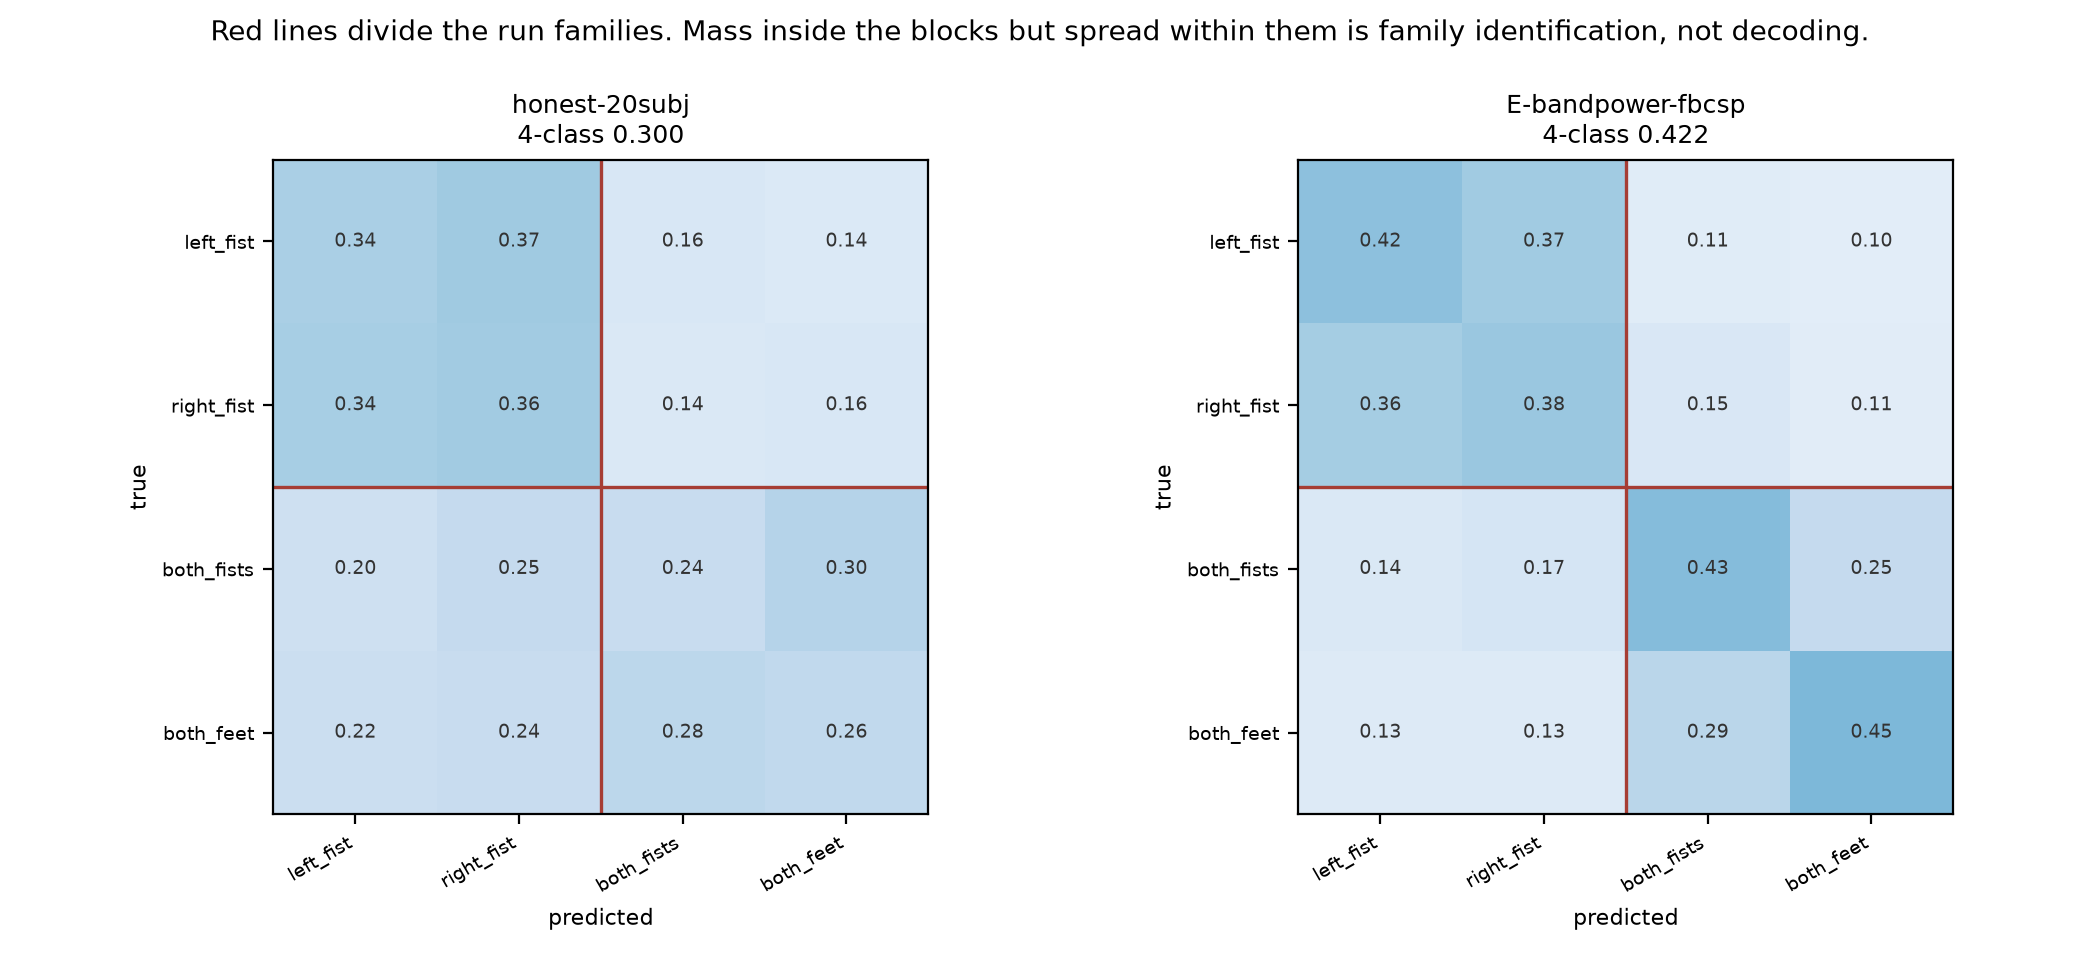
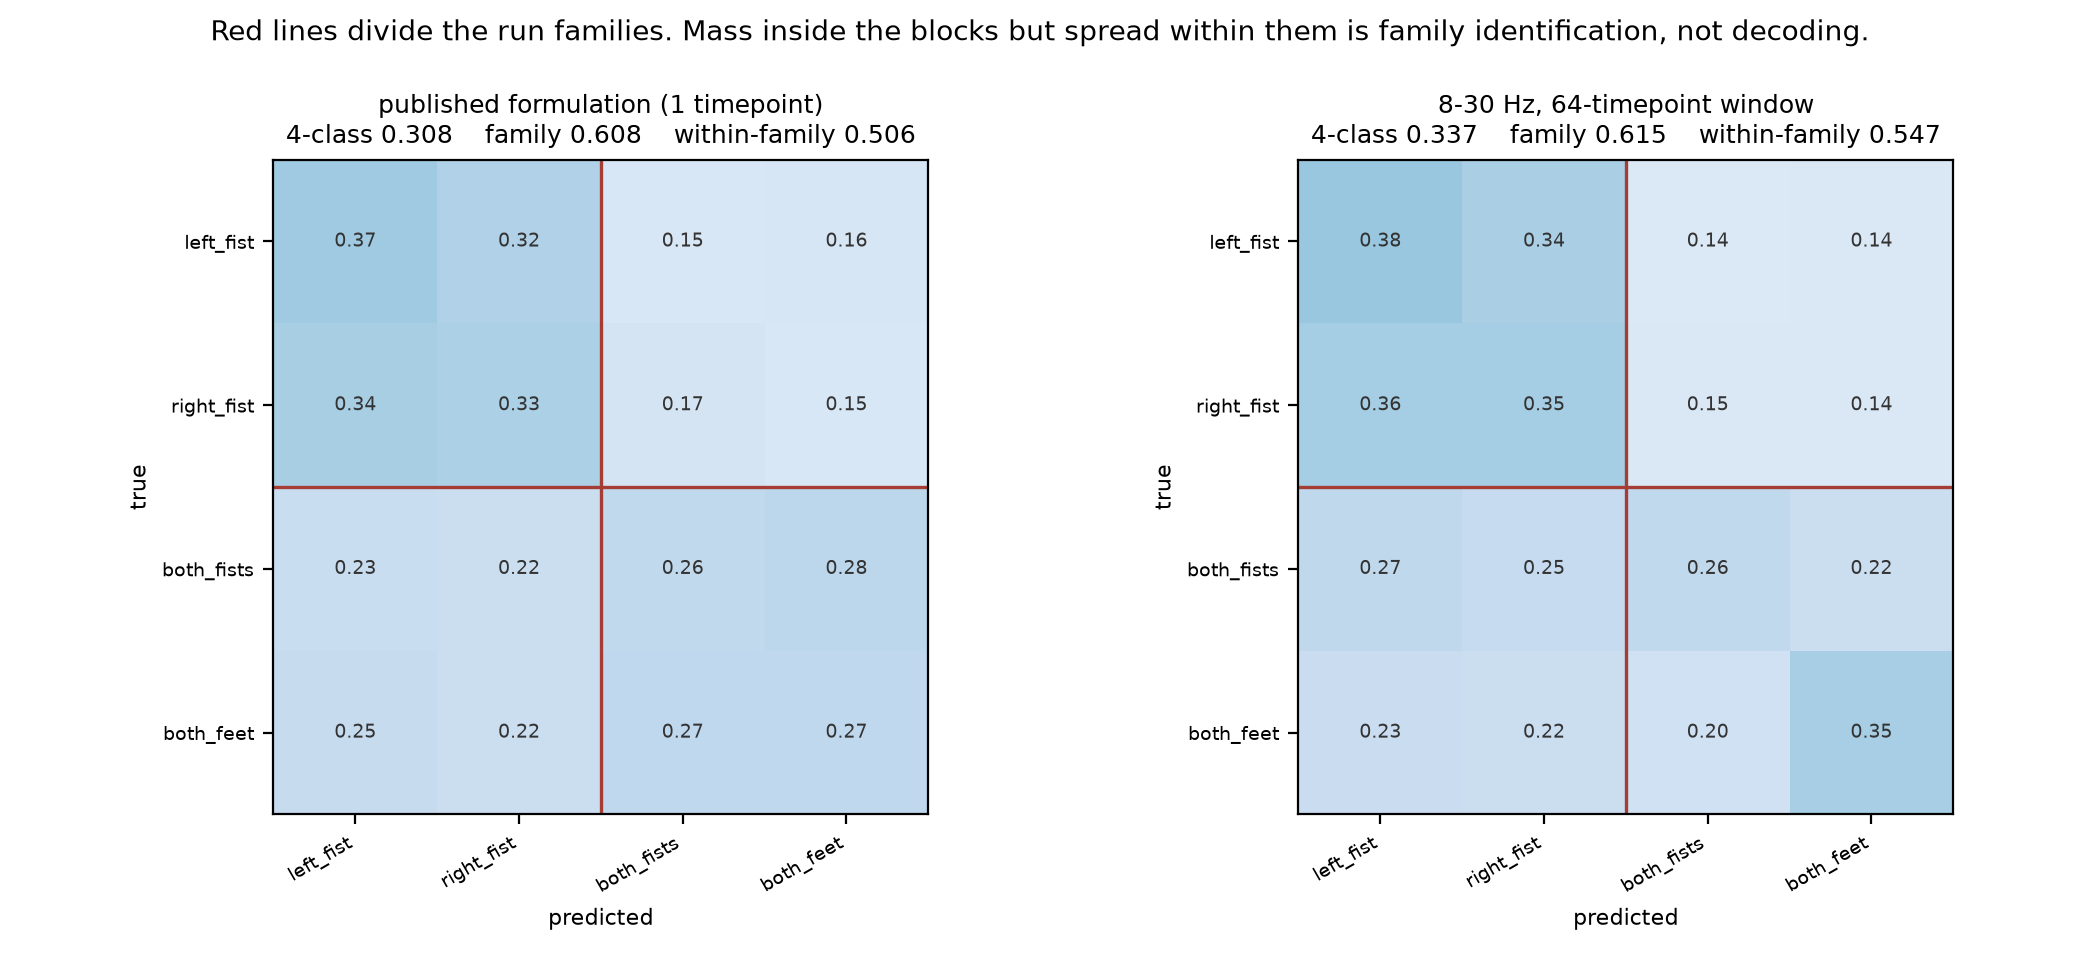
Regenerate figures on full-scale data; clean up 2.6 GB
confusion_decomposition.png now uses the Phase 1 runs (103 subjects) instead of 20
development subjects, and prints the family / within-family decomposition on each
panel. The published-formulation panel makes the argument visible: strong block
structure across the run-family divide, but near-equal cells within each block
(0.37/0.32, 0.34/0.33). The 8-30 Hz panel shows both_feet at 0.35 against 0.20,
which is real within-family signal.

The confirmatory arms are all binary, so 4-class confusion structure only exists in
the Phase 1 anchor runs; the figure targets those deliberately rather than the C-
tags, and the tag defaults say so.

Cleanup, 8.2 GB -> 5.6 GB. Removed the project-root source zip after verifying an
identical copy in ~/Downloads, checkpoints/ (763 MB), a stray nohup log and
__pycache__. Kept data/raw, both caches, figures and the experiment log.

Also fixed what caused the checkpoint waste rather than only deleting it:
checkpoints were written to an untagged path, so 42 runs overwrote one set of 515
files that identified nothing and were loaded by no result. They are now scoped
under checkpoints/<tag>/ and opt-in via --checkpoints.

176 tests passing.

diff --git a/scripts/make_figures.py b/scripts/make_figures.py
@@ -102,7 +102,16 @@ def figure_confusion(out: Path, cfg, log: Path, tags: list[str]) -> None:
         cm = np.sum([np.array(r["trial_confusion"]) for r in rows
                      if r.get("tag") == tag and "trial_confusion" in r], axis=0)
         acc = np.trace(cm) / cm.sum()
-        plot_confusion(cm, list(cfg.class_names), ax, title=f"{tag}\n4-class {acc:.3f}")
+        # Same-family cells: true and predicted both in {0,1} or both in {2,3}.
+        same = sum(cm[t, p] for t in range(4) for p in range(4)
+                   if (t < 2) == (p < 2))
+        fam = same / cm.sum()
+        within = np.trace(cm) / max(same, 1)
+        nice = {"P1-A-103-s1": "published formulation (1 timepoint)",
+                "P1-D-103-s1": "8-30 Hz, 64-timepoint window"}.get(tag, tag)
+        plot_confusion(cm, list(cfg.class_names), ax,
+                       title=f"{nice}\n4-class {acc:.3f}    family {fam:.3f}    "
+                             f"within-family {within:.3f}")
     fig.suptitle("Red lines divide the run families. Mass inside the blocks but "
                  "spread within them is family identification, not decoding.",
                  fontsize=10)
@@ -118,8 +127,11 @@ def main() -> int:
     ap.add_argument("--subject", default="S001")
     ap.add_argument("--log", default="runs/experiments.jsonl")
     ap.add_argument("--out", default="figures")
+    # Full-scale 4-class tags. The confirmatory arms are all binary, so the
+    # 4-class confusion structure -- which is what this figure exists to show --
+    # lives in the Phase 1 anchor runs (103 subjects), not in the C- tags.
     ap.add_argument("--tags", nargs="*",
-                    default=["honest-20subj", "E-bandpower-fbcsp"])
+                    default=["P1-A-103-s1", "P1-D-103-s1"])
     args = ap.parse_args()
 
     cfg = load_config(args.config)

diff --git a/scripts/run_subject_dependent.py b/scripts/run_subject_dependent.py
@@ -88,6 +88,10 @@ def main() -> int:
     ap.add_argument("--resume", action="store_true",
                     help="skip (subject, fold) pairs already logged under this tag, "
                          "so an interrupted run can be restarted with the same command")
+    ap.add_argument("--checkpoints", action="store_true",
+                    help="save best-by-validation weights under checkpoints/<tag>/. "
+                         "Off by default: 42 runs previously overwrote one set of 515 "
+                         "untagged files, 763 MB that identified nothing.")
     ap.add_argument("--quiet", action="store_true")
     args = ap.parse_args()
 
@@ -175,7 +179,9 @@ def main() -> int:
             trainer = Trainer(model, train_cfg, n_classes=n_classes)
 
             history = trainer.fit(
-                fold, checkpoint_path=f"checkpoints/{subject}_fold{split.fold}.pt")
+                fold, checkpoint_path=(
+                    f"checkpoints/{args.tag or 'untagged'}/"
+                    f"{subject}_fold{split.fold}.pt" if args.checkpoints else None))
             result = trainer.evaluate_samples(fold.test)
 
             fold_trial_acc.append(result["trial"].accuracy)

diff --git a/project_documentation.md b/project_documentation.md
@@ -1929,6 +1929,23 @@ picks up exactly where it stopped and cannot duplicate a row.
 
 ### 2026-09-02
 
+- Regenerated `confusion_decomposition.png` on the **full-scale** Phase 1 runs (103
+  subjects) rather than 20 development subjects, with the family / within-family
+  decomposition printed on each panel. The published formulation's panel now shows the
+  argument visually: strong block structure across the run-family divide, but near-equal
+  cells *within* each block (0.37/0.32, 0.34/0.33) — family identification with no
+  decoding. The 8-30 Hz panel shows `both_feet` at 0.35 against 0.20, i.e. real
+  within-family signal.
+- **Cleanup: 8.2 GB -> 5.6 GB.** Removed the project-root copy of the source zip (1.9 GB;
+  an identical copy in `~/Downloads` was verified present first), `checkpoints/` (763 MB),
+  a stray nohup log and `__pycache__`. Kept `data/raw`, both caches, `figures/` and
+  `runs/experiments.jsonl`.
+- **Fixed the cause of the checkpoint waste.** `run_subject_dependent.py` wrote to
+  `checkpoints/{subject}_fold{n}.pt` with no tag, so 42 distinct runs overwrote one set of
+  515 files — 763 MB that identified nothing, was referenced by no result, and could not
+  be attributed to a run. Checkpoints are now scoped under `checkpoints/<tag>/` and are
+  **opt-in** via `--checkpoints`, since no reported result ever loaded one.
+
 - Rewrote `CLAUDE.md`'s Expected Results with measured values and CIs, closing open
   decision 5. Recorded that LOSO came out *above* subject-dependent, that 4-class LOSO has
   never been measured, and added the two reporting rules learned the hard way.
